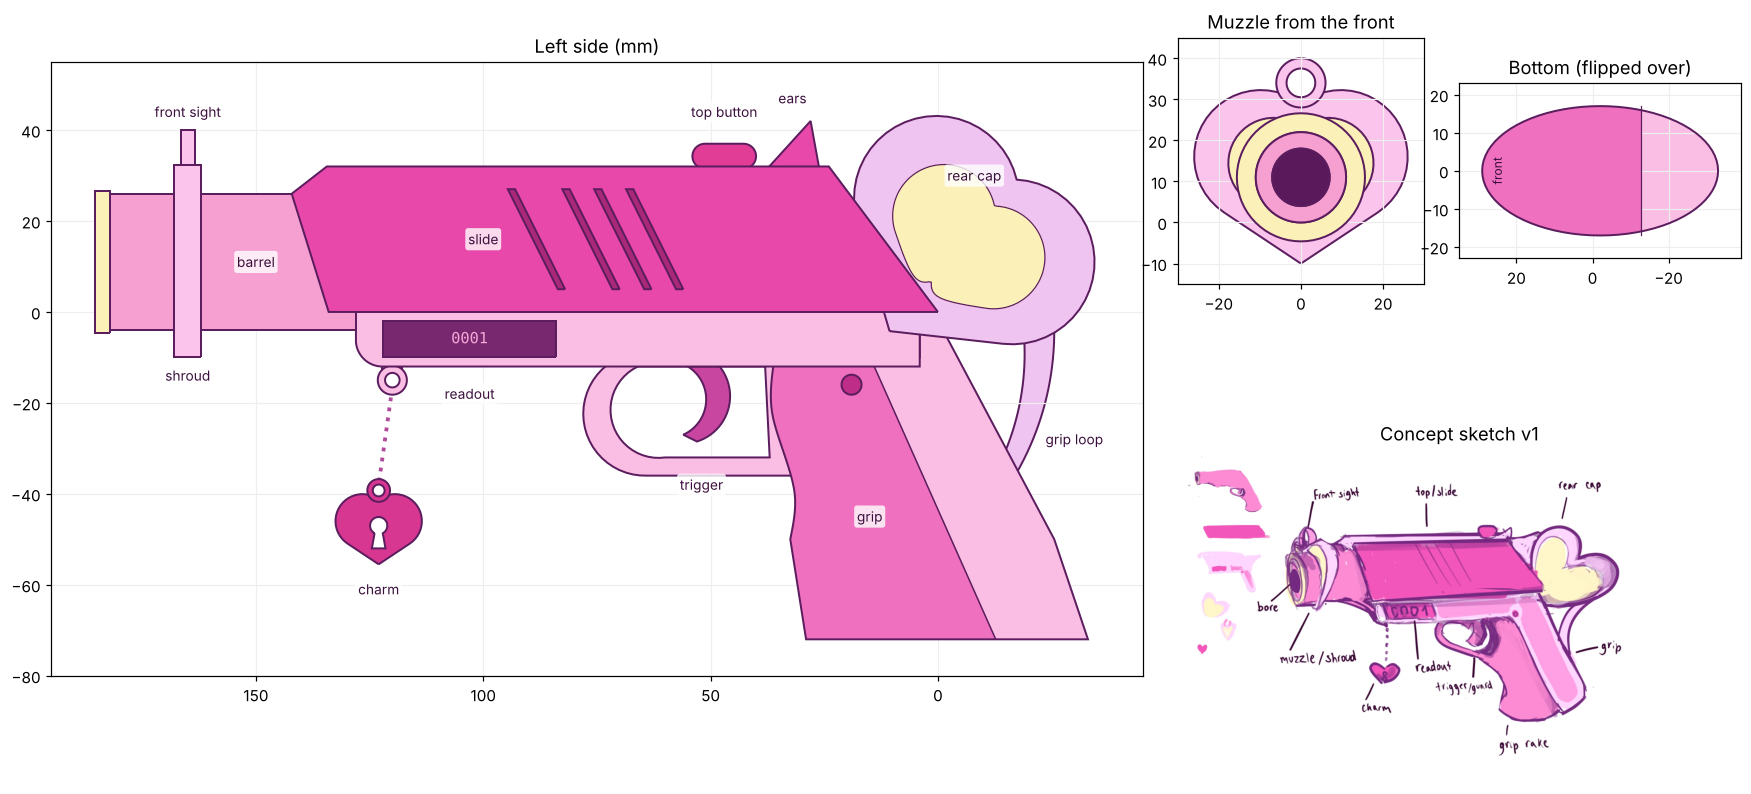
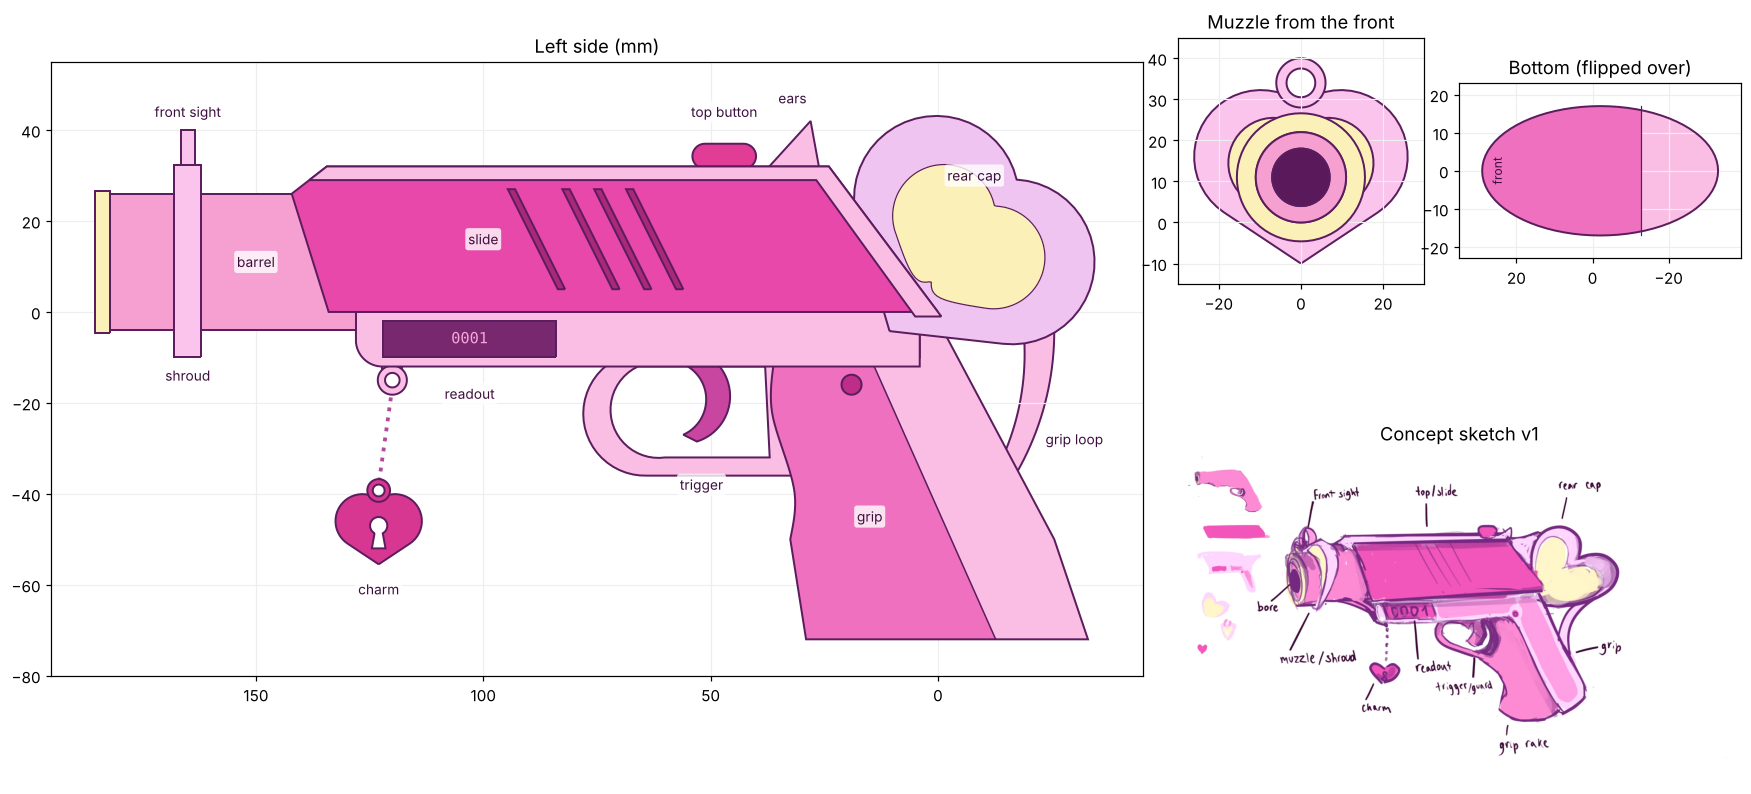
Light-pink strip on top of the slide; one seamless light-pink piece
- New top strip: a light-pink band along the top (TOP_STRIP_H) and down the
  slanted back (REAR_STRIP_W) of the slide, cut out of the hot-pink slide.
- The strip, cat ears, frame, grip back strip and grip loop (hook) are now
  joined into a single light-pink body in Frame & Grip, so the horizontal
  and vertical parts are seamless. The hook is no longer lavender.
- Grip back now rises to the slide so the back edge runs unbroken.

Claude-Session: https://claude.ai/code/session_01RDHdy5xfTrUfMAq7GtHoaE

Changed region(s): [[0.185, 0.1511, 0.5551, 0.3929]]

diff --git a/Fusion/Scripts/CelestiaGunMouse/CelestiaGunMouse.py b/Fusion/Scripts/CelestiaGunMouse/CelestiaGunMouse.py
@@ -9,10 +9,11 @@ HOW TO RUN
   The script always opens a NEW design, so it never touches your other work.
 
 WHAT YOU GET (one component per part of the sketch)
-  Slide (cat-ear rear sight, grooves), Muzzle & Shroud (barrel, heart flange,
-  front sight ring, muzzle rings), Frame & Grip (frame, readout window,
-  trigger guard, two-tone grip, charm eyelet), Trigger, Top Button,
-  Rear Cap (puffy 3D heart + grip loop) and Charm (heart padlock).
+  Slide (grooves), Muzzle & Shroud (barrel, heart flange, front sight ring,
+  muzzle rings), Frame & Grip (one light-pink piece: top strip, cat ears,
+  frame, readout window, trigger guard, grip back strip, grip loop, charm
+  eyelet; plus the dark grip panel and oval base), Trigger, Top Button,
+  Rear Cap (puffy 3D heart) and Charm (heart padlock).
 
 EDITING
   * Thicknesses (side-to-side widths, cut depths) are live Fusion parameters:
@@ -54,6 +55,11 @@ EARS_X0 = 26.0              # rear edge of the ears
 EARS_LEN = 12.0
 EARS_H = 10.0
 EARS_GAP = 6.0              # gap between the two ears
+
+# Light-pink strip wrapping the top and slanted back of the slide. It is one
+# piece with the ears, frame, grip back strip and grip loop (no seams).
+TOP_STRIP_H = 3.0           # thickness of the strip along the top
+REAR_STRIP_W = 5.0          # width of the strip down the slanted back
 
 # Top button (pill on top of the slide)
 BUTTON_X0, BUTTON_X1 = 40.0, 54.0
@@ -284,12 +290,34 @@ def arc_band(p0, pm, p1, t_start, t_end):
     return [('arc', o[0], o[1], o[2]), ('line', o[2], i[2]), ('arc', i[2], i[1], i[0]), ('line', i[0], o[0])]
 
 
-def slide_outline():
+def slide_points():
+    """Slide corners: rear-bottom, front-bottom, bevel start, bevel end, rear-top."""
     L, H = SLIDE_LEN, SLIDE_H
     fx = L + SLIDE_FRONT_LEAN
     b = SLIDE_FRONT_BEVEL
-    return polygon([(0, 0), (L, 0), (fx - b * SLIDE_FRONT_LEAN / H, H - b),
-                    (fx - b * 1.6, H), (SLIDE_REAR_LEAN, H)])
+    return [(0, 0), (L, 0), (fx - b * SLIDE_FRONT_LEAN / H, H - b),
+            (fx - b * 1.6, H), (SLIDE_REAR_LEAN, H)]
+
+
+def slide_outline():
+    return polygon(slide_points())
+
+
+def top_strip_outline():
+    """The part of the slide outline that is light pink: a band along the
+    top (TOP_STRIP_H) and down the slanted back (REAR_STRIP_W)."""
+    _, f0, f1, f2, rear_top = slide_points()
+    yi = SLIDE_H - TOP_STRIP_H
+
+    def x_at(p, q, y):
+        return p[0] + (q[0] - p[0]) * (y - p[1]) / (q[1] - p[1])
+    if yi >= f1[1]:
+        front = [(x_at(f1, f2, yi), yi), f2]
+    else:
+        front = [(x_at(f0, f1, yi), yi), f1, f2]
+    # starts 1 mm below the slide so it fuses with the frame and grip back
+    return polygon([(slide_rear_x(-1.0), -1.0), (REAR_STRIP_W, -1.0), (slide_rear_x(yi) + REAR_STRIP_W, yi)]
+                   + front + [rear_top])
 
 
 def slide_rear_x(y):
@@ -385,8 +413,9 @@ def _unit(v):
 
 
 def grip_outline():
-    """Whole grip (back piece + panel) as one outline."""
-    top = -4.0
+    """Whole grip (back piece + panel) as one outline. The back runs up to
+    y = 0 to meet the light-pink strip on the slide."""
+    top = 0.0
     rear_top = (spine_rear_x(top), top)
     low = PANEL_FRONT[-1][1]                 # below GRIP_CUT_Y; trimmed off later
     rear_low = (spine_rear_x(low), low)
@@ -787,18 +816,9 @@ def build_slide(root):
     sk = side_sketch(comp, 'Slide profile', [slide_outline()])
     slide = extrude_sym(comp, pick_profile(sk), 'slide_width', NEW, name='Slide').bodies.item(0)
     fillet(comp, slide, FILLET_SLIDE, 'Slide')
-
-    # Cat ears: a wedge with a notch cut down the middle
-    sk = side_sketch(comp, 'Ears profile', [ears_outline()])
-    ears = extrude_sym(comp, pick_profile(sk), 'slide_width - 4 mm', NEW, name='Ears').bodies.item(0)
-    sk = front_sketch(comp, 'Ears notch', [polygon([
-        (-EARS_GAP / 2, SLIDE_H + 0.5), (EARS_GAP / 2, SLIDE_H + 0.5),
-        (EARS_GAP / 2, SLIDE_H + EARS_H + 5), (-EARS_GAP / 2, SLIDE_H + EARS_H + 5)])],
-        EARS_X0 + EARS_LEN / 2)
-    extrude_sym(comp, pick_profile(sk), EARS_LEN * 3, CUT, participants=[ears])
-    fillet(comp, body_named(comp, 'Ears'), 0.6, 'Ears', edge_filter=lambda e: e.boundingBox.minPoint.y * 10 > SLIDE_H + 0.2)
-    slide = body_named(comp, 'Slide')
-    combine_join(comp, slide, [b for b in bodies(comp) if b.name != 'Slide'])
+    # The top/back band is light pink and belongs to the Frame & Grip piece
+    sk = side_sketch(comp, 'Top strip cut', [top_strip_outline()])
+    extrude_sym(comp, pick_profile(sk), 'slide_width + 2 mm', CUT, participants=[slide])
     slide = body_named(comp, 'Slide')
 
     # Slanted grooves on both sides
@@ -851,6 +871,27 @@ def build_frame(root):
     split_grip(comp)
     sk = side_sketch(comp, 'Grip pin', [[('circle', GRIP_PIN, GRIP_PIN_R)]])
     extrude_sym(comp, pick_profile(sk), 'grip_width + 2 mm', NEW, name='Grip pin')
+
+    # Light-pink strip on the top and back of the slide, with the cat ears
+    sk = side_sketch(comp, 'Top strip', [top_strip_outline()])
+    extrude_sym(comp, pick_profile(sk), 'slide_width', NEW, name='Top strip')
+    fillet(comp, body_named(comp, 'Top strip'), FILLET_SLIDE, 'Top strip',
+           edge_filter=lambda e: e.boundingBox.minPoint.y * 10 > SLIDE_H - TOP_STRIP_H + 0.5)
+    sk = side_sketch(comp, 'Ears profile', [ears_outline()])
+    ears = extrude_sym(comp, pick_profile(sk), 'slide_width - 4 mm', NEW, name='Ears').bodies.item(0)
+    sk = front_sketch(comp, 'Ears notch', [polygon([
+        (-EARS_GAP / 2, SLIDE_H + 0.5), (EARS_GAP / 2, SLIDE_H + 0.5),
+        (EARS_GAP / 2, SLIDE_H + EARS_H + 5), (-EARS_GAP / 2, SLIDE_H + EARS_H + 5)])],
+        EARS_X0 + EARS_LEN / 2)
+    extrude_sym(comp, pick_profile(sk), EARS_LEN * 3, CUT, participants=[ears])
+    fillet(comp, body_named(comp, 'Ears'), 0.6, 'Ears',
+           edge_filter=lambda e: e.boundingBox.minPoint.y * 10 > SLIDE_H + 0.2)
+
+    # Grip loop (the hook from the heart into the grip back), same light pink
+    if INCLUDE_GRIP_LOOP:
+        sk = side_sketch(comp, 'Grip loop profile', [grip_loop_outline()])
+        extrude_sym(comp, pick_profile(sk), 'loop_width', NEW, name='Grip loop')
+        fillet(comp, body_named(comp, 'Grip loop'), 2.5, 'Grip loop')
 
     sk = side_sketch(comp, 'Trigger guard profile', guard_loops())
     guard = extrude_sym(comp, pick_profile(sk, loops=2), 'guard_width', NEW, name='Guard').bodies.item(0)
@@ -967,12 +1008,6 @@ def build_rear_cap(root):
     build_3d_heart(comp, 'Heart cap', heart_lobes(CAP_HEART_W, CAP_CENTER, CAP_TILT_DEG), zs)
     build_3d_heart(comp, 'Heart inset',
                    heart_lobes(CAP_HEART_W, CAP_CENTER, CAP_TILT_DEG, CAP_INSET_SCALE, inset=True), zs_in)
-    if INCLUDE_GRIP_LOOP:
-        sk = side_sketch(comp, 'Grip loop profile', [grip_loop_outline()])
-        loop = extrude_sym(comp, pick_profile(sk), 'loop_width', NEW, name='Grip loop').bodies.item(0)
-        fillet(comp, loop, 2.5, 'Grip loop')
-        cap = body_named(comp, 'Heart cap')
-        combine_join(comp, cap, [body_named(comp, 'Grip loop')])
     return comp
 
 

diff --git a/Fusion/preview/preview_side.py b/Fusion/preview/preview_side.py
@@ -112,7 +112,7 @@ axs = fig.add_axes([0.67, 0.04, 0.32, 0.42])
 # ---- Left side view (back to front, roughly how parts overlap) ----
 y, r = cgm.BORE_AXIS_Y, cgm.BARREL_R
 if cgm.INCLUDE_GRIP_LOOP:
-    draw(ax, [cgm.grip_loop_outline()], C['Heart cap'], 1)
+    draw(ax, [cgm.grip_loop_outline()], C['Frame & Grip'], 1)
 draw(ax, cgm.guard_loops(), C['Frame & Grip'], 2.5)
 def grip_side_silhouette():
     """Grip outline above GRIP_CUT_Y plus the blend down to the oval base."""
@@ -178,11 +178,12 @@ bulge = [[zs_in * cgm.heart_half_thickness(small, (x, yy)) - zs * cgm.heart_half
           for x in gx] for yy in gy]
 ax.contourf(gx, gy, bulge, levels=[0, 100], colors=[tuple(c / 255 for c in C['Heart inset'])], zorder=5.1)
 ax.contour(gx, gy, bulge, levels=[0], colors=['#5b1d5e'], linewidths=0.8, zorder=5.15)
-draw(ax, [cgm.ears_outline()], C['Slide'], 5.5)
+draw(ax, [cgm.ears_outline()], C['Frame & Grip'], 5.5)
 draw(ax, [cgm.button_outline()], C['Top button'], 5.5)
 draw(ax, [cgm.slide_outline()], C['Slide'], 6)
 for s in cgm.serration_outlines():
     draw(ax, [s], (170, 40, 120), 6.5)
+draw(ax, [cgm.top_strip_outline()], C['Frame & Grip'], 6.6)
 draw(ax, cgm.charm_loops(), C['Charm'], 7)
 draw(ax, cgm.charm_bail_loops(), C['Charm'], 7)
 bail = cgm.charm_bail_loops()[0][0]
